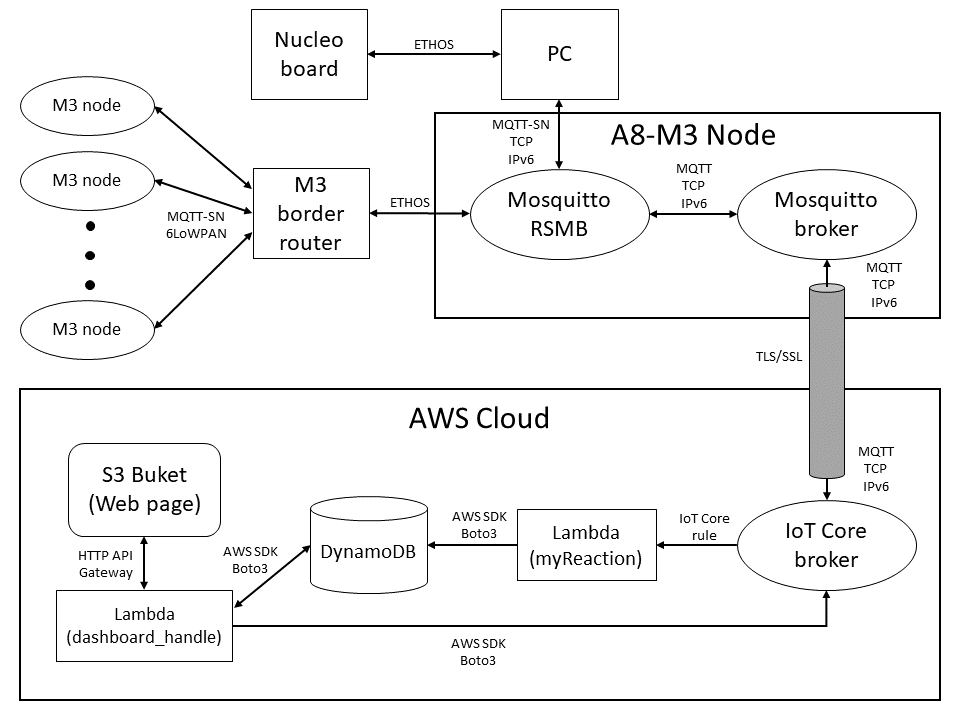
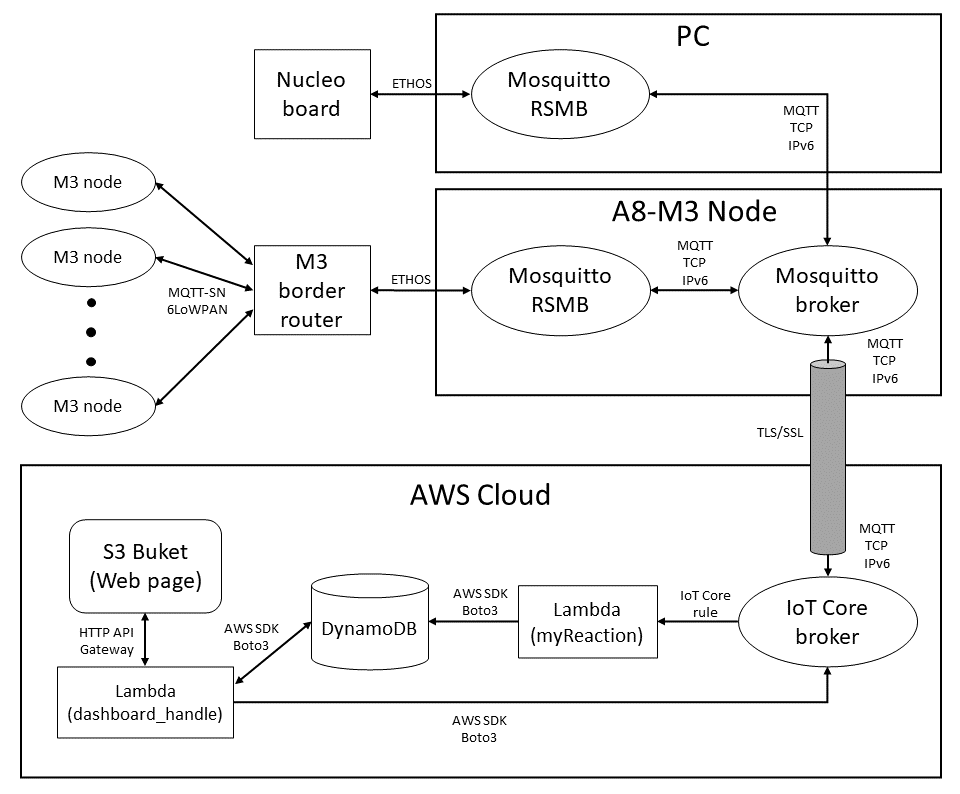
Architecture update

diff --git a/stm32_f103rey/README.md b/stm32_f103rey/README.md
@@ -2,7 +2,7 @@
 
 ## Network architecture
 
-In the configuration developed for the second assignment the network is composed of multiple M3 nodes of the FIT IoT-Lab. One of the nodes is used as border router to provide connection to Internet to the hole network. The additional A8-M3 node is used to run the Mosquitto RSMB broker connected with the nodes and the bridged Mosquitto broker connected to IoT Core with the proper certificates. The local STM32 Nucleo board with the code developed for the first assignment can be used as additional sensor node by connecting it to the global IPv6 address of the A8-M3 node. The overall architecture is shown in the picture below.
+In the configuration developed for the second assignment the network is composed of multiple M3 nodes of the FIT IoT-Lab. One of the nodes is used as border router to provide connection to Internet to the hole network. The additional A8-M3 node is used to run the Mosquitto RSMB broker connected with the nodes and the bridged Mosquitto broker connected to IoT Core with the proper certificates. The IoT Core components are the same used in the [first assignment](./../stm32_f401re), for more info check the [dedicated folder](./../aws). The local STM32 Nucleo board, with the code developed for the first assignment, can be used as additional sensor node by bridging the RSMB running on the PC with the Mosquitto broker of the A8-M3 node, which is reachable using its global IPv6 address. The overall architecture is shown in the picture below.
 
 <img src=./../src/network2.png width="800">
 
